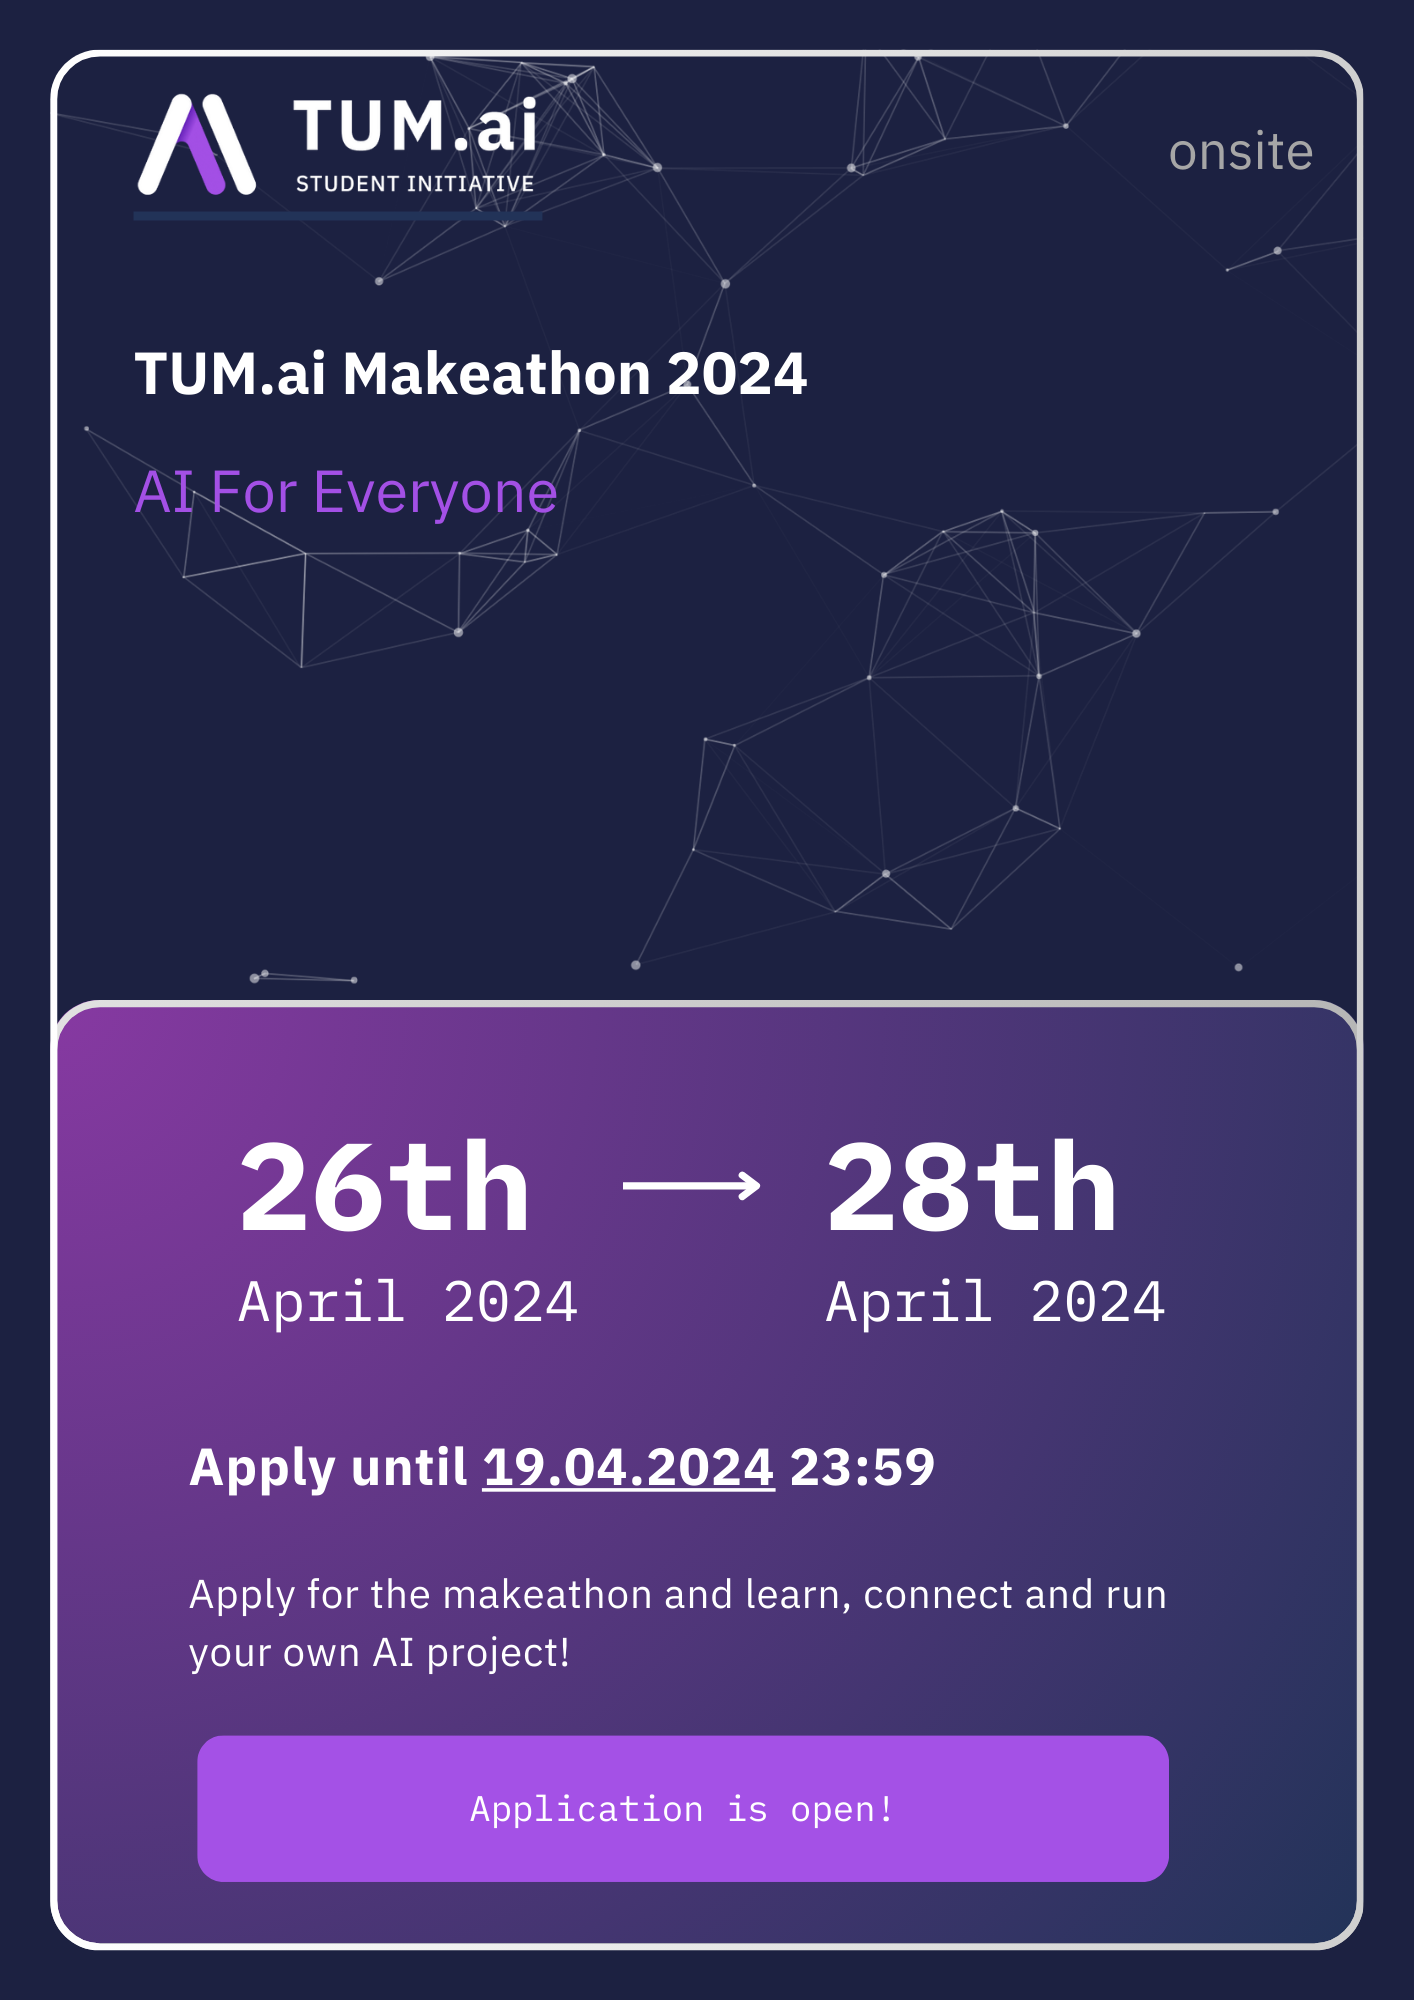
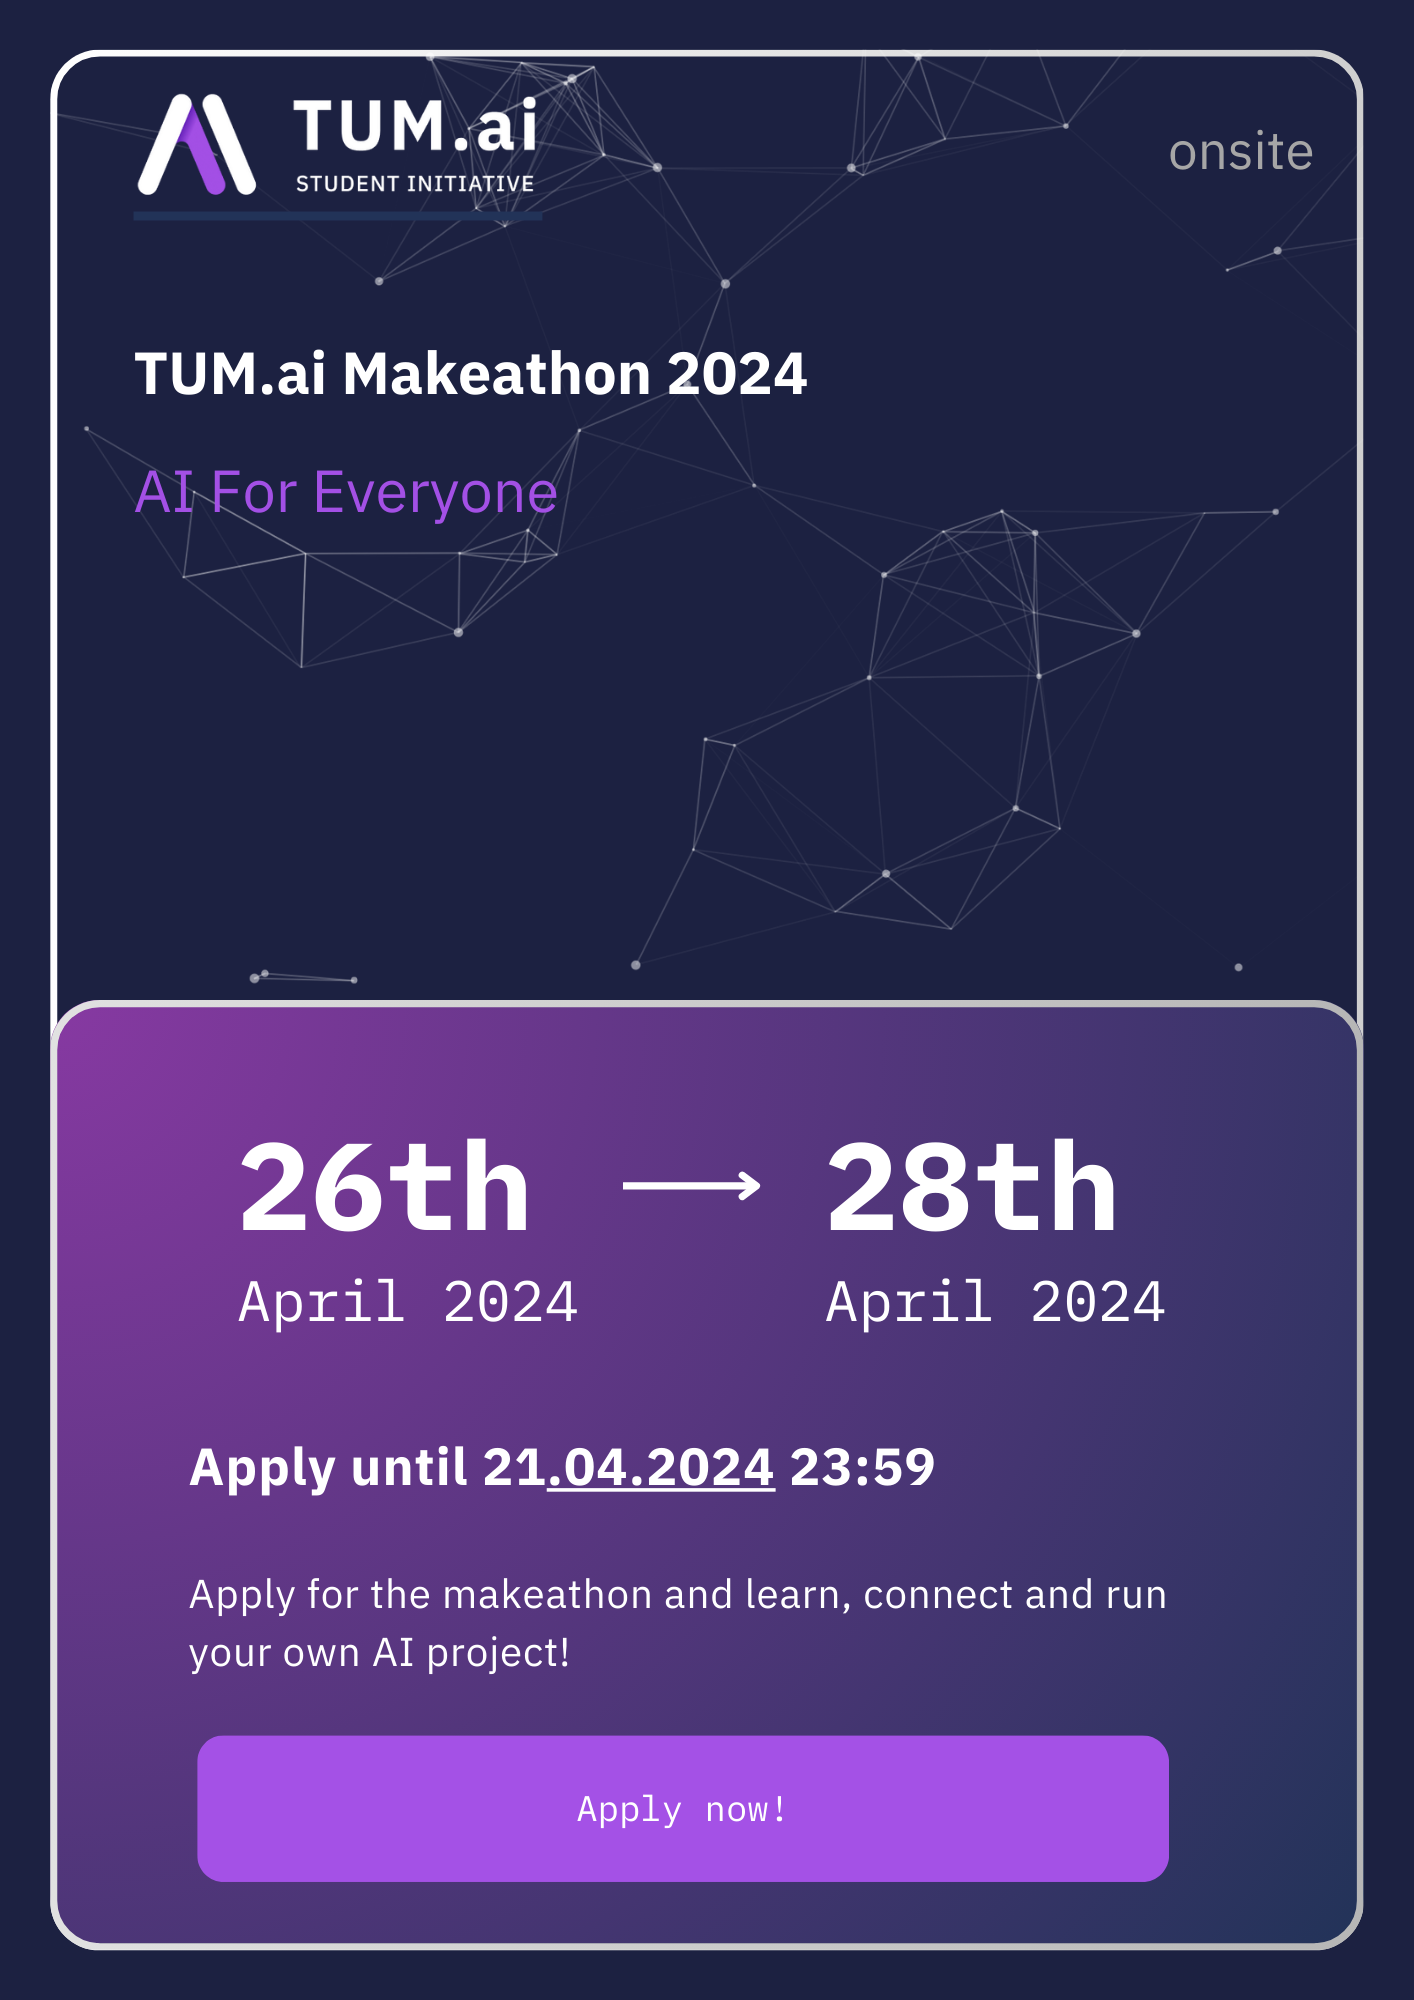
added sponsors section

diff --git a/components/03_sections/sponsors.js b/components/03_sections/sponsors.js
@@ -30,62 +30,52 @@ export default function Sponsors(){
       {/*    isDarkBackground={false}*/}
       {/*  />*/}
       {/*</div>*/}
-        <Link href="https://www.esa.int" passHref >
+        <Link href="https://www.reply.com/arlanis-reply/de/" passHref >
           <div className={styles.Premium_bigger}>
-            <Image src={"/assets/ESA_logo_1.png"} alt="ESA" layout="fill" objectFit="contain" />
+            <Image src={"/assets/Reply-LOGO.jpg"} alt="Reply" layout="fill" objectFit="contain" />
           </div>
         </Link>
-         <Link href="https://www.bmwgroup.com/de.html" passHref >
+         <Link href="https://www.gresearch.com/" passHref >
           <div className={styles.Premium}>
-            <Image src={"/assets/BMWGroup_Logo.svg"} alt="BMW" layout="fill" objectFit="contain" />
+            <Image src={"/assets/GR_Logo_Horizontal.png"} alt="GResearch" layout="fill" objectFit="contain" />
           </div>
         </Link>
-        <Link href="https://dai.ki" passHref >
+        <Link href="https://www.quantco.com/" passHref >
           <div className={styles.Premium}>
-            <Image src={"/assets/logo_Daiki.png"} alt="Daiki" layout="fill" objectFit="contain" />
+            <Image src={"/assets/quantco_white.png"} alt="Quantco" layout="fill" objectFit="contain" />
           </div>
         </Link>
-        <Link href="https://www.gresearch.co.uk" passHref >
+        <Link href="https://www.care-for-rare.org/" passHref >
           <div className={styles.Premium_smaller}>
-            <Image src={"/assets/gresearch_logo.png"} alt="GResearch" layout="fill" objectFit="contain" />
+            <Image src={"/assets/Health_Challenge_CFRl.jpg"} alt="CFRI" layout="fill" objectFit="contain" />
           </div>
         </Link>
-        <Link href="https://cohere.ai" passHref >
+        <Link href="https://www.lmu-klinikum.de/hauner/kinder-und-kinderpoliklinik" passHref >
           <div className={styles.Premium_smaller}>
-            <Image src={"/assets/Cohere_Logo.png"} alt="Cohere" layout="fill" objectFit="contain" />
+            <Image src={"/assets/Health_Challenge_Hauner.jpg"} alt="Hauner" layout="fill" objectFit="contain" />
           </div>
         </Link>
-        <Link href="https://mcml.ai" passHref >
+        <Link href="https://www.lmu-klinikum.de/" passHref >
           <div className={styles.Premium_smaller}>
-            <Image src={"/assets/MCML_Logo.png"} alt="MCML" layout="fill" objectFit="contain" />
+            <Image src={"/assets/Health_Challenge_LMU.jpg"} alt="LMU" layout="fill" objectFit="contain" />
           </div>
         </Link>
-        <Link href="https://www.microsoft.com" passHref >
+        <Link href="https://www.munich-ecosystem.de/" passHref >
           <div className={styles.Premium_smaller}>
-            <Image src={"/assets/microsoft_v2.png"} alt="Microsoft" layout="fill" objectFit="contain" />
-          </div>
-        </Link>
-        <Link href="https://www.aleph-alpha.com" passHref >
-          <div className={styles.Premium_smaller}>
-            <Image src={"/assets/AlephAlpha_logo.png"} alt="AlephAlpha" layout="fill" objectFit="contain" />
+            <Image src={"/assets/Helath_Challenge_MI.jpg"} alt="MI" layout="fill" objectFit="contain" />
           </div>
         </Link>
         <div className={styles.SponsorsGrid}>
           {/*/!* 1st row *//*}*/}
           <div className={styles.SponsorsRow}>
-            <Link href="https://genistat.ch/en/" passHref >
+            <Link href="https://jobs.check24.de/de/" passHref >
               <div className={styles.Sponsor}>
-                <Image src={"/assets/Genistat_Logo.png"} alt="Genistat" layout="fill" objectFit="contain" />
+                <Image src={"/assets/CHECK24.png"} alt="Check24" layout="fill" objectFit="contain" />
               </div>
             </Link>
-            <Link href="https://www.allianz.de" passHref >
+            <Link href="https://www.osapiens.com/de" passHref >
               <div className={styles.Sponsor_bigger}>
-                <Image src={"/assets/allianz_logo_2.png"} alt="Allianz" layout="fill" objectFit="contain" />
-              </div>
-            </Link>
-            <Link href="https://www.appliedai.de/" passHref >
-              <div className={styles.Sponsor_bigger}>
-                <Image src={"/assets/aai_logo_2.png"} alt="appliedAI" layout="fill" objectFit="contain" />
+                <Image src={"/assets/Osapiens_W.svg"} alt="Osapiens" layout="fill" objectFit="contain" />
               </div>
             </Link>
           </div>

diff --git a/components/03_sections/faqs.js b/components/03_sections/faqs.js
@@ -69,7 +69,7 @@ const data = {
     },
     {
       "question": "When is the application deadline?",
-      "answer": "The application deadline is on the 19th of April 2024. But better be quick, we review the applications on a rolling basis and only have so many spots available. "
+      "answer": "The application deadline is on the 21th of April 2024. But better be quick, we review the applications on a rolling basis and only have so many spots available. "
     },
     {
       "question": "Who can participate?",

diff --git a/components/03_sections/roadmap.js b/components/03_sections/roadmap.js
@@ -29,7 +29,7 @@ const data = {
     {
       title: "Application Deadline",
       icon: "/assets/selection.svg",
-      time: "19.04",
+      time: "21.04",
       content_highlighted: "",
       content:
         "Registration closes. \nNote: We review applications on a rolling basis. That means the earlier you apply, the better. \n\n\n",

diff --git a/pages/index.js b/pages/index.js
@@ -46,7 +46,7 @@ export default function Home() {
         <Element name="stories">
           <Stories />
         </Element>
-        {/* <Sponsors /> */}
+        <Sponsors />
         <SponsorInfo />
         <Element name="faqs">
           <Faqs />
